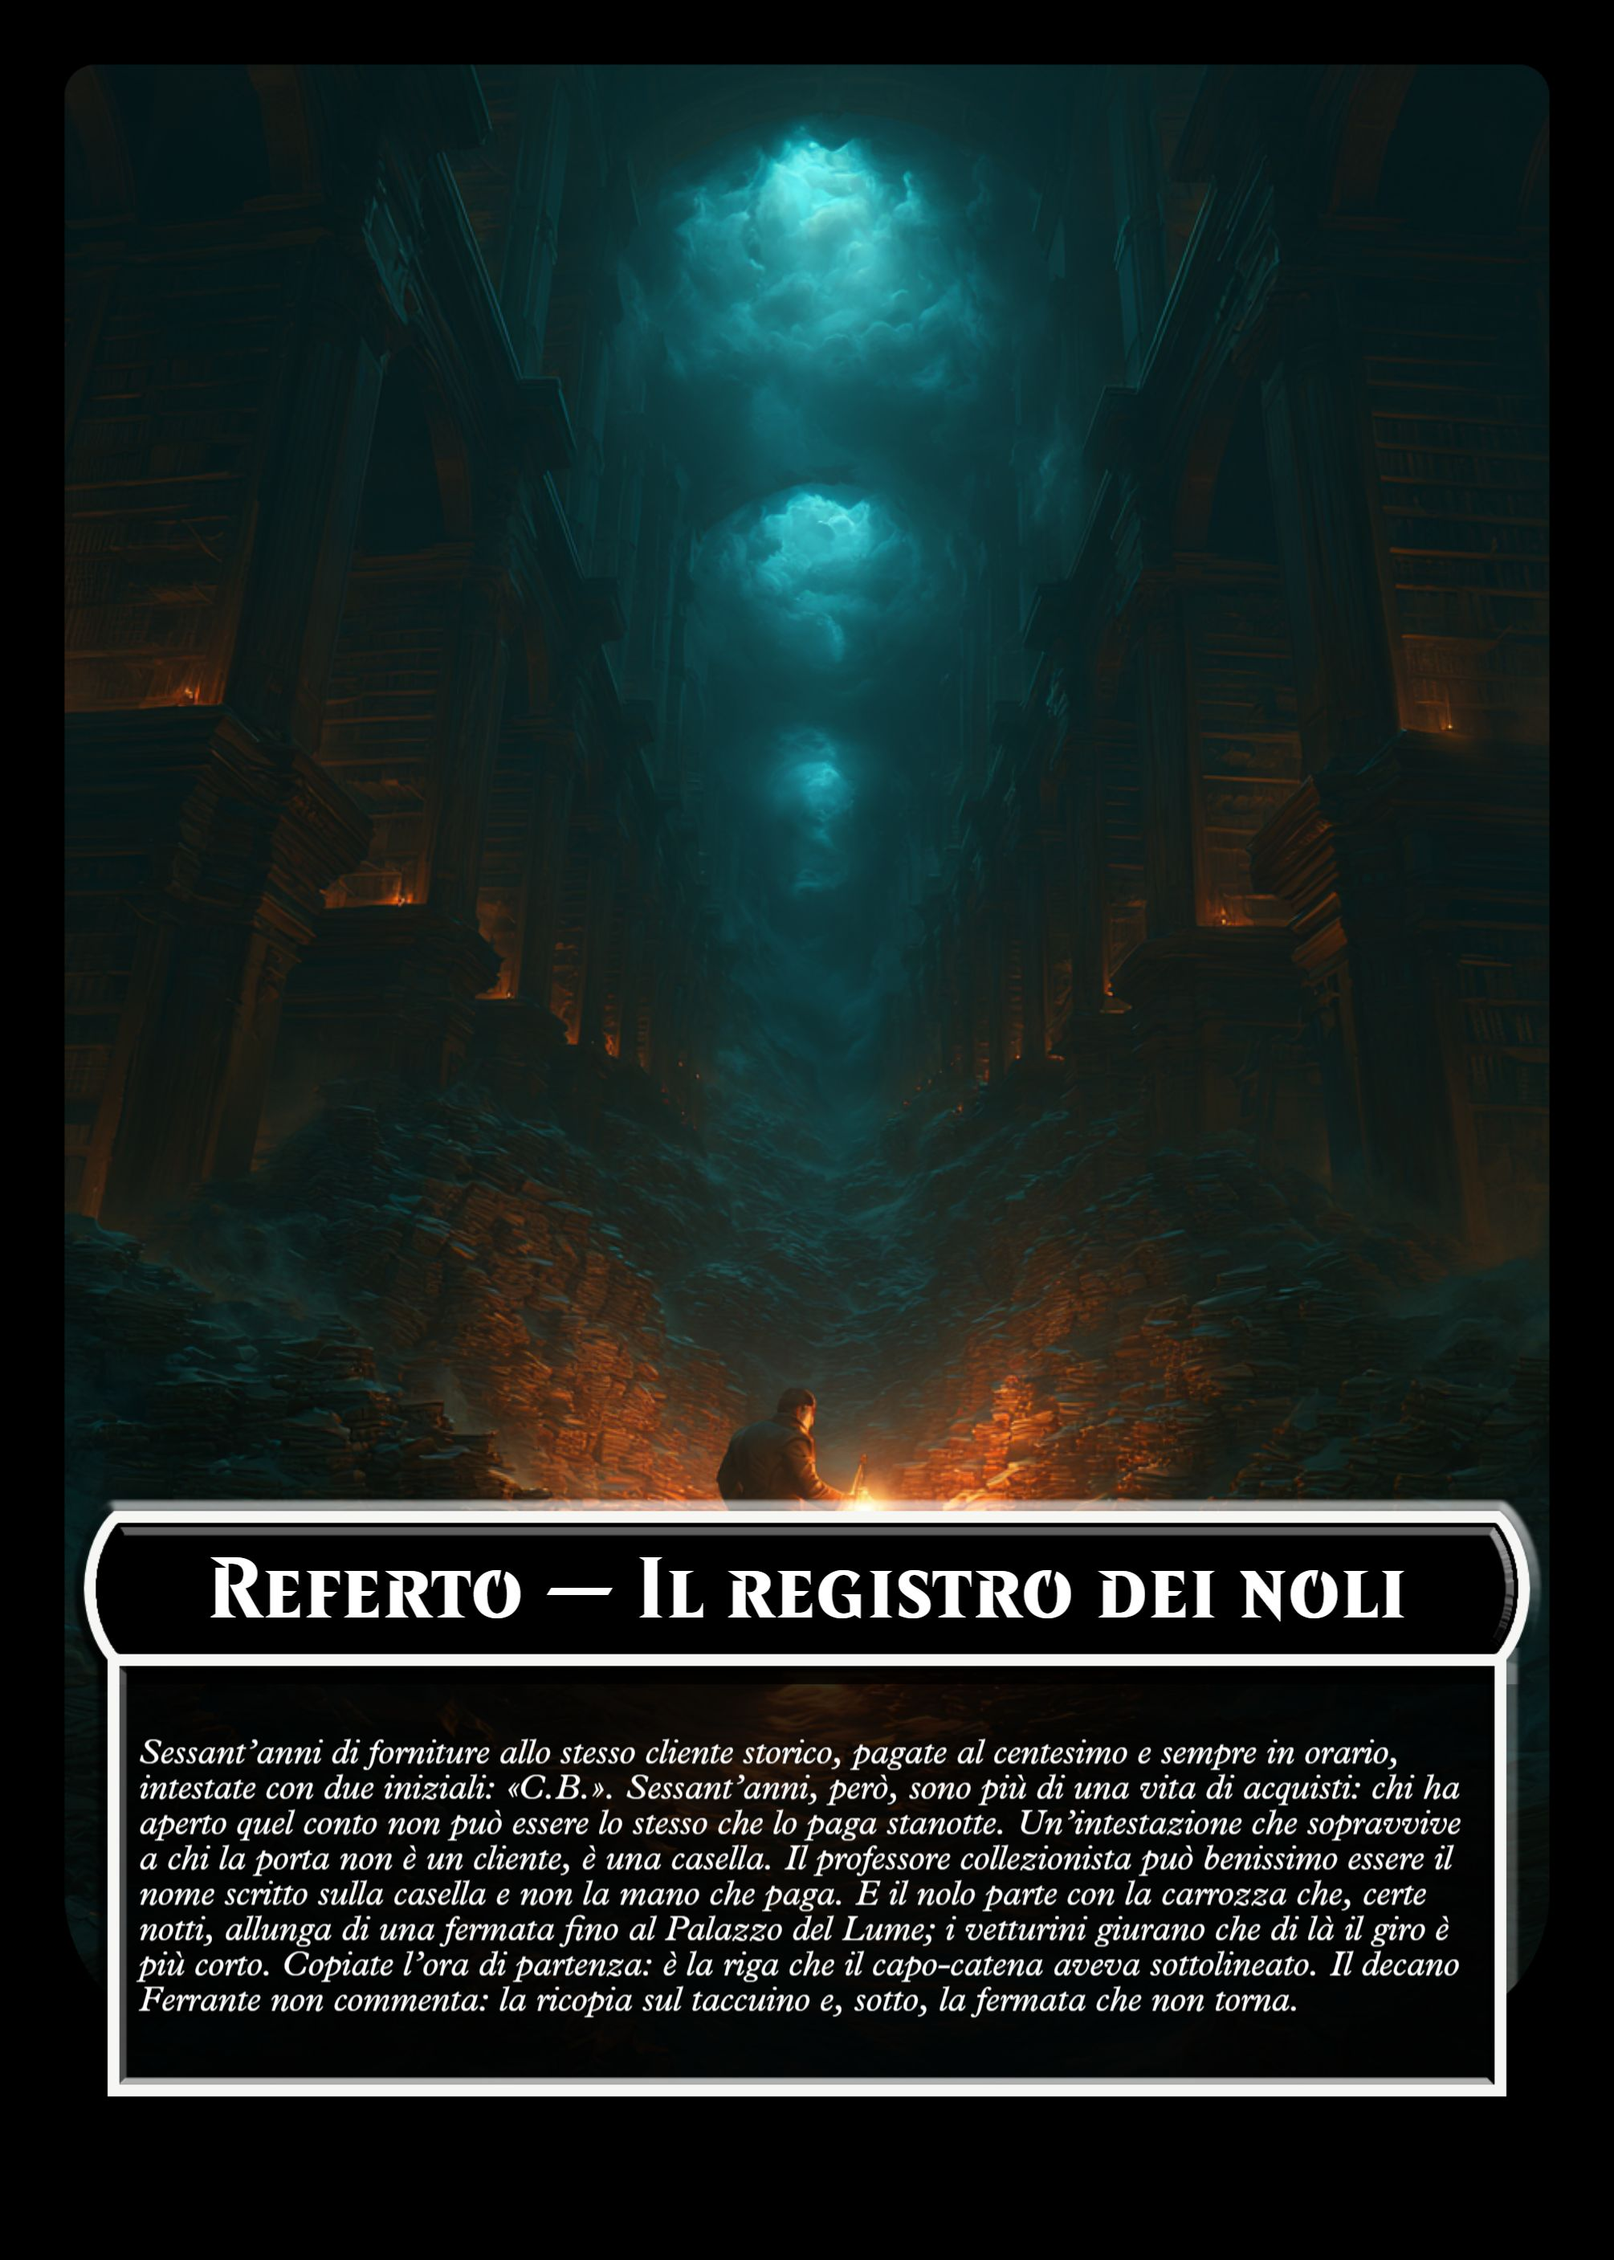
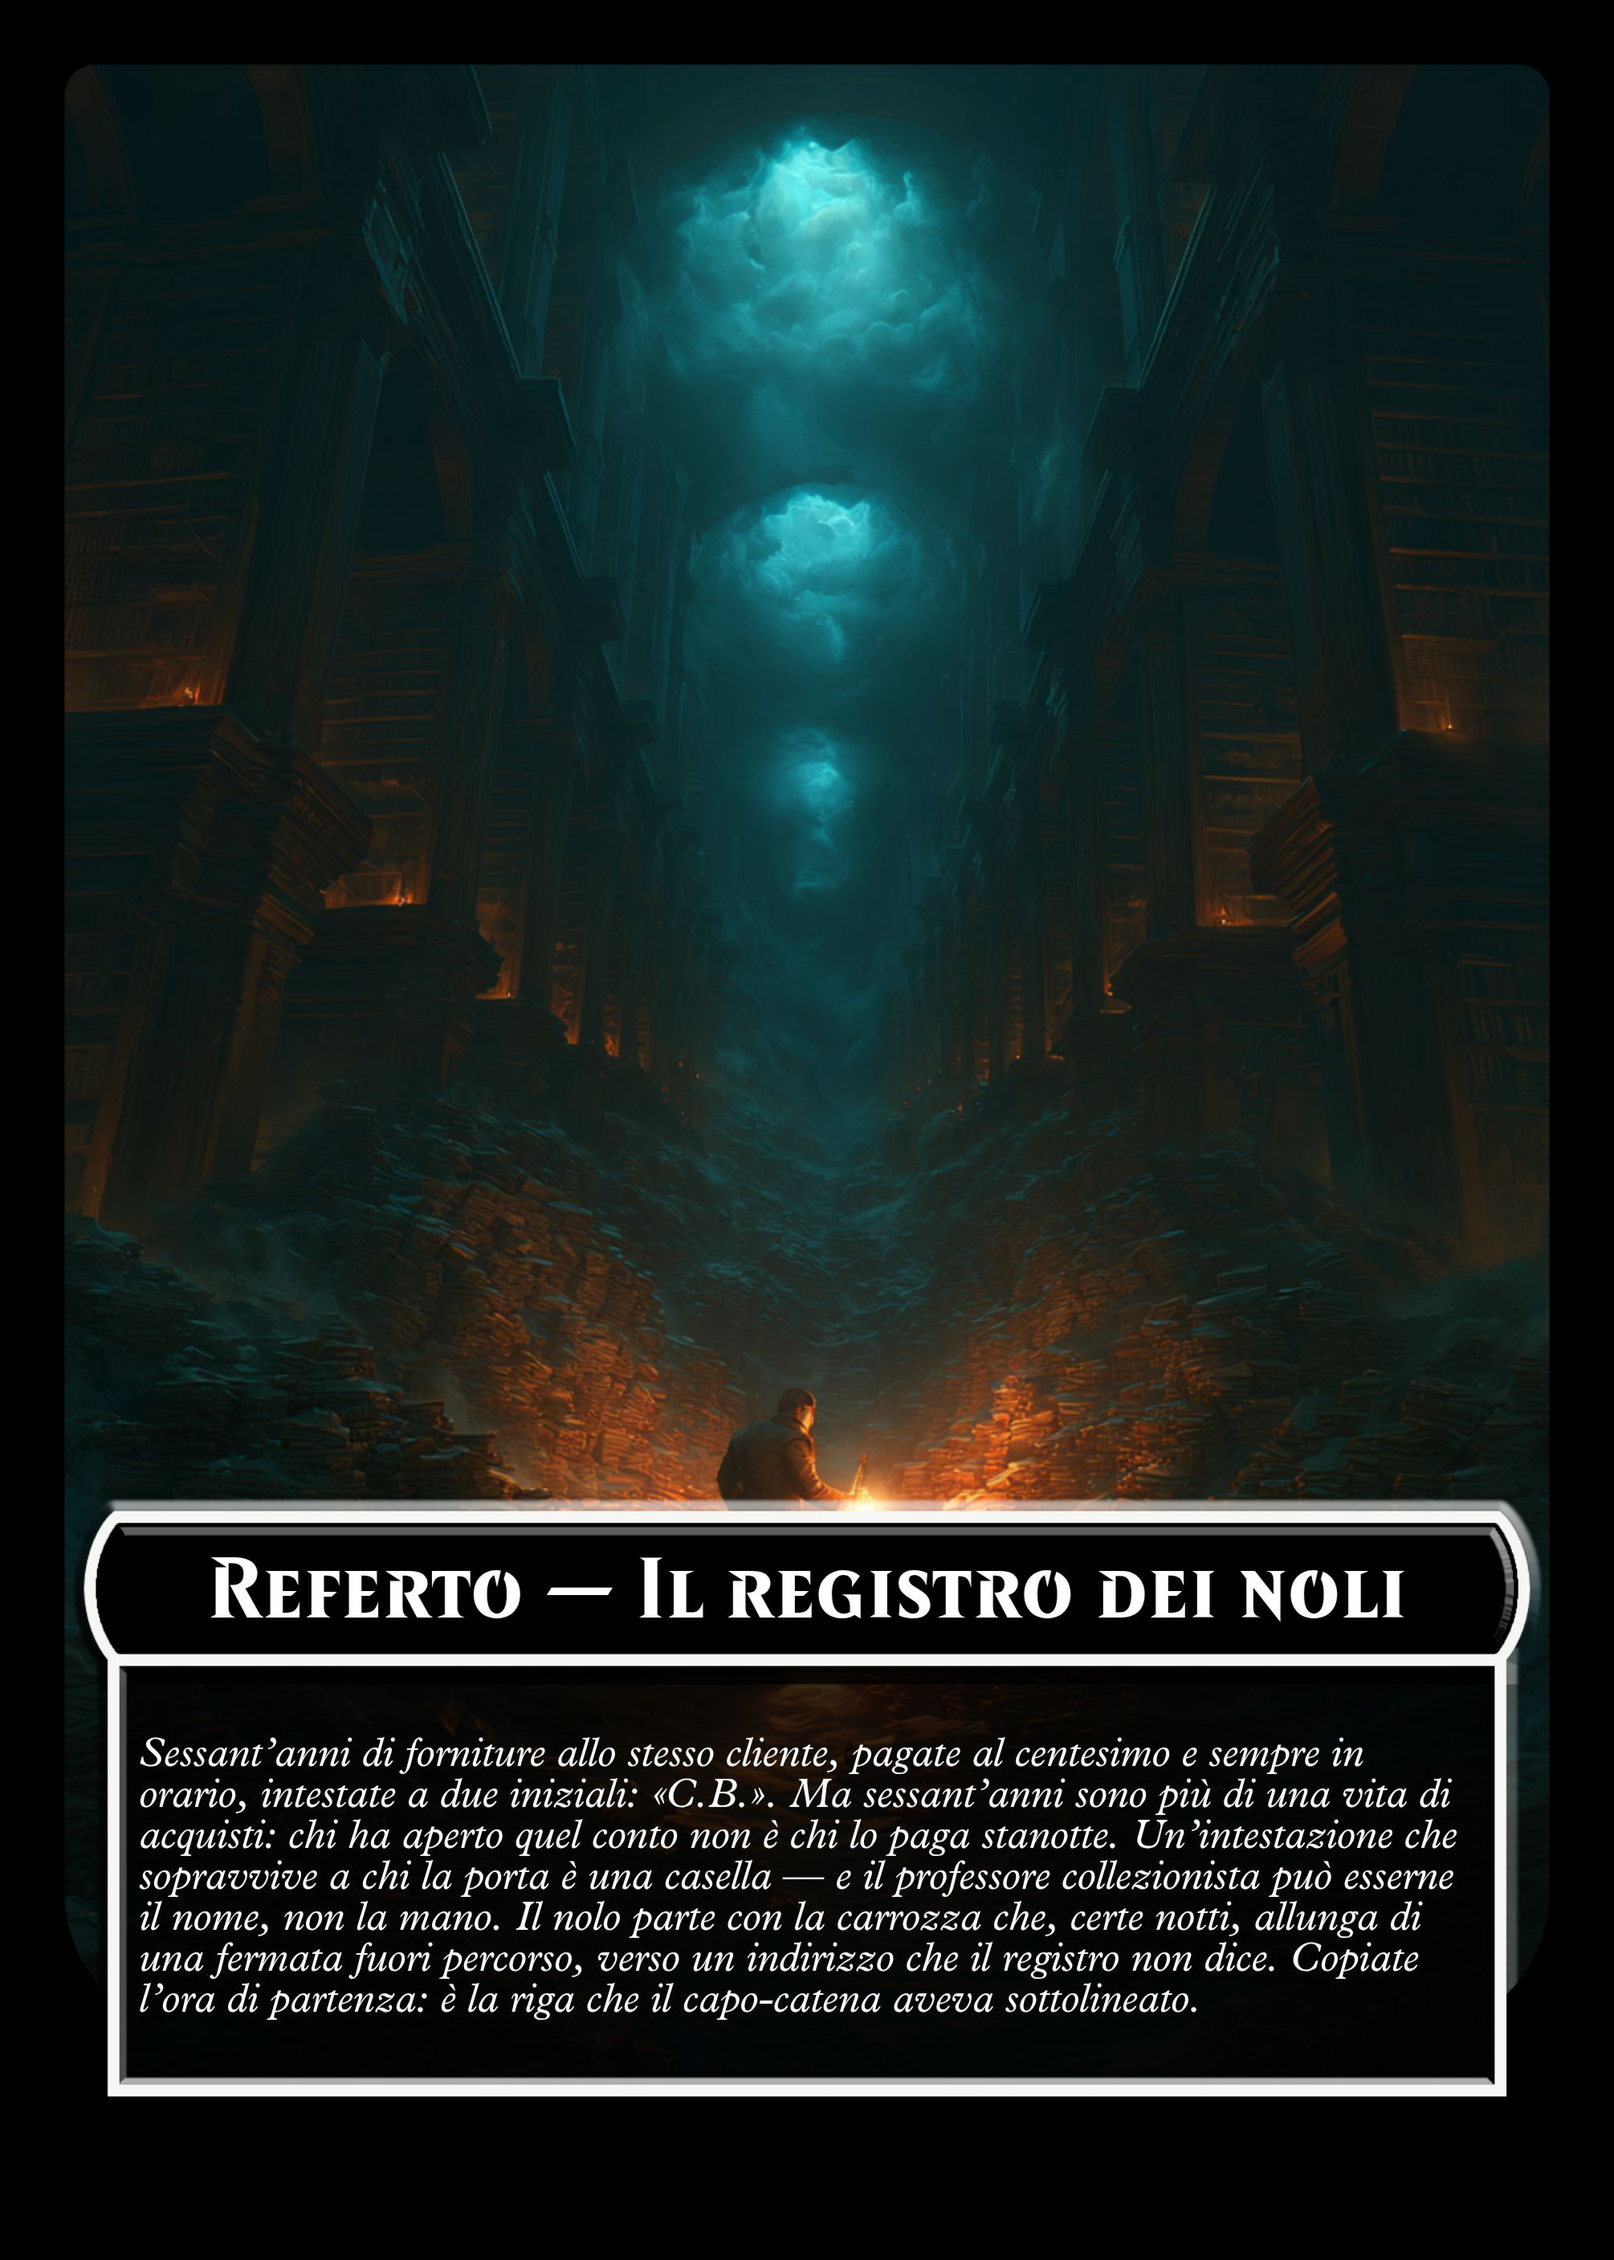
Attenua la fuga di spoiler su Ep.13 (Palazzo del Lume)
Il fascicolo sorgente (src/gen_ep13.py:726-730) marca esplicitamente
il collegamento fra il conto «C.B.» e il Palazzo del Lume come
informazione riservata a chi arbitra, da sciogliere solo all'Episodio
18 ("Non anticipatela"). Tre carte Approfondimento in
cards-data.js (Testimone — Il capostazione, Testimone — Il doganiere,
Referto — Il registro dei noli) lo rivelavano comunque ai giocatori.

Rimosso il nome "Palazzo del Lume" dalle tre carte: il mistero della
fermata fuori percorso resta, ma senza svelarne la destinazione.
Carte rigenerate e verificate.

Claude-Session: https://claude.ai/code/session_0129n3j6LLiEkE6FQr2QM6hA

Changed region(s): [[0.0925, 0.7729, 0.9254, 0.8966]]

diff --git a/scripts/cardconjurer/cards-data.js b/scripts/cardconjurer/cards-data.js
@@ -3042,7 +3042,7 @@ const LUOGHI13 = [
     testo: 'Lo snodo dei trasporti di terraferma: rimesse, cavalli, il quadro dei noli. Da qui parte, ogni notte, il nolo puntuale della carta di pregio; e qui lavorava il capo-catena, prima che il canale se lo prendesse.',
     approfondimenti: [
       { tipo: 'Testimonianza', soggetto: 'Il capostazione',
-        testo: '«Ve lo dico perché ho paura anch’io: quel nolo puntuale lo intesta sempre lo stesso studio, quello del Notaio Rasca. Carta in regola, bolli a posto, paga prima. E il capo-catena, buon’anima, s’era messo a cronometrare quella carrozza come si cronometra un treno: l’ora di partenza, le soste, il ritorno. Diceva che certe notti fa una fermata in più, al Palazzo del Lume. I vetturini alzano le spalle — comodità del giro, dicono, si è sempre fatta così. Lui però continuava a segnarla.»' },
+        testo: '«Ve lo dico perché ho paura anch’io: quel nolo puntuale lo intesta sempre lo stesso studio, quello del Notaio Rasca. Carta in regola, bolli a posto, paga prima. E il capo-catena, buon’anima, s’era messo a cronometrare quella carrozza come si cronometra un treno: l’ora di partenza, le soste, il ritorno. Diceva che certe notti fa una fermata in più, in un punto che non era sul giro. I vetturini alzano le spalle — comodità del giro, dicono, si è sempre fatta così. Lui però continuava a segnarla.»' },
     ] },
   { n: 2, nome: 'Lo Studio del Notaio', req: 'Disponibile dall’inizio',
     art: 'artworks/Lo Studio del Notaio.png',
@@ -3063,7 +3063,7 @@ const LUOGHI13 = [
     testo: 'Timbra le bolle di transito delle risme dal molino fuori porta. Roba pulita, dazio pagato; troppo pulita. È qui che il capo-catena veniva a confrontare i noli, e qui che aveva copiato l’ultima bolla prima di finire in acqua.',
     approfondimenti: [
       { tipo: 'Testimonianza', soggetto: 'Il doganiere',
-        testo: '«Ve lo metto a verbale perché ormai è morto lui e non io: il capo-catena aveva preso a contare il nolo della carta ora per ora, notte per notte, e sapeva a memoria quando parte e quando torna. Diceva anche che nelle notti giuste la carrozza fa una fermata in più prima di lasciare la città, al Palazzo del Lume. Che cosa ci vada a fare non me l’ha spiegato e io non gliel’ho chiesto; il vetturino giura che di là la strada è più corta. So soltanto che è annegato per quello che aveva contato, non per quello che aveva rubato.»' },
+        testo: '«Ve lo metto a verbale perché ormai è morto lui e non io: il capo-catena aveva preso a contare il nolo della carta ora per ora, notte per notte, e sapeva a memoria quando parte e quando torna. Diceva anche che nelle notti giuste la carrozza fa una fermata in più prima di lasciare la città, in un posto che non le spettava. Che cosa ci vada a fare non me l’ha spiegato e io non gliel’ho chiesto; il vetturino giura che di là la strada è più corta. So soltanto che è annegato per quello che aveva contato, non per quello che aveva rubato.»' },
     ] },
   { n: 5, nome: 'La Casa del Capo-Catena',
     req: 'La casa del morto è sigillata dai gendarmi, e si apre solo a chi sa perché è morto — la parola che tutti dicono a bassa voce, l’annegato che sapeva nuotare.',
@@ -3087,7 +3087,7 @@ const LUOGHI13 = [
     testo: 'Custodisce i registri di ogni nolo autorizzato: è qui che il calcolo del capo-catena trova conferma nero su bianco. Sessant’anni di forniture allo stesso conto intestato «C.B.», e una carrozza che, certe notti, fa una fermata di troppo.',
     approfondimenti: [
       { tipo: 'Referto', soggetto: 'Il registro dei noli',
-        testo: 'Sessant’anni di forniture allo stesso cliente, pagate al centesimo e sempre in orario, intestate a due iniziali: «C.B.». Ma sessant’anni sono più di una vita di acquisti: chi ha aperto quel conto non è chi lo paga stanotte. Un’intestazione che sopravvive a chi la porta è una casella — e il professore collezionista può esserne il nome, non la mano. Il nolo parte con la carrozza che, certe notti, allunga di una fermata fino al Palazzo del Lume. Copiate l’ora di partenza: è la riga che il capo-catena aveva sottolineato.' },
+        testo: 'Sessant’anni di forniture allo stesso cliente, pagate al centesimo e sempre in orario, intestate a due iniziali: «C.B.». Ma sessant’anni sono più di una vita di acquisti: chi ha aperto quel conto non è chi lo paga stanotte. Un’intestazione che sopravvive a chi la porta è una casella — e il professore collezionista può esserne il nome, non la mano. Il nolo parte con la carrozza che, certe notti, allunga di una fermata fuori percorso, verso un indirizzo che il registro non dice. Copiate l’ora di partenza: è la riga che il capo-catena aveva sottolineato.' },
     ] },
   { n: 8, nome: 'Il Deposito delle Risme',
     req: 'Il deposito dove arrivano le risme è chiuso a quest’ora, e apre solo a chi sa da dove vengono: l’opificio fuori le mura che fa la filigrana.',

diff --git a/AUDIT-ARTEFATTI.md b/AUDIT-ARTEFATTI.md
@@ -135,16 +135,21 @@ quasi 200 luoghi).
 
 ## 2. Problemi gravi specifici (non sistemici, ma seri)
 
-- **Ep.13 — fuga di spoiler (ALTA)** — *non corretto, lasciato alla decisione
-  dell'autore*: tre carte Approfondimento (2 Testimoni, 1 Referto) rivelano
-  esplicitamente "una fermata in più al Palazzo del Lume", il segreto di
-  campagna che la Soluzione dice testualmente di non svelare prima
-  dell'Episodio 18. Nessuna fuga simile trovata negli altri episodi controllati
-  (14, 15, 17 espliciti "nessuno spoiler rilevato"). Rileggendo le quattro
-  carte coinvolte non si può escludere che sia foreshadowing intenzionale
-  (un indizio ambiguo che acquista senso solo a posteriori) piuttosto che un
-  refuso di scrittura: serve un giudizio d'autore, non una correzione
-  automatica.
+- **Ep.13 — fuga di spoiler (ALTA)** — ***corretto***: tre carte Approfondimento
+  (2 Testimoni, 1 Referto) nominavano esplicitamente "una fermata in più al
+  Palazzo del Lume". Confermato *vero* bug, non foreshadowing voluto: il
+  fascicolo sorgente (`src/gen_ep13.py` riga 726-730) marca lo stesso dettaglio
+  come **noto solo a chi arbitra** ("Questo lo sapete voi che arbitrate, non
+  loro [...] la fermata in più resta un appunto non sciolto, e si scioglierà
+  all'Episodio 18. **Non anticipatela.**") — le carte in mano ai giocatori
+  contraddicevano questa istruzione esplicita di design. Attenuato in
+  `cards-data.js`: rimosso il nome "Palazzo del Lume" dalle tre carte (righe
+  3045, 3066, 3090), lasciando il mistero della fermata "fuori percorso, verso
+  un indirizzo che il registro non dice" senza svelare la destinazione; il
+  legame fra le iniziali «C.B.» e Il Palazzo del Lume, cuore del colpo di
+  scena dell'Ep.18, non è più leggibile dalle carte. Le 3 carte coinvolte
+  sono state rigenerate e verificate. Nessuna fuga simile trovata negli altri
+  episodi controllati (14, 15, 17 espliciti "nessuno spoiler rilevato").
 - **Ep.15 — carte mancanti (ALTA)** — *2 di 3 risolte*: la carta Luogo "Il
   Tribunale" e la carta Testimone "Il vecchio giudice" avevano già arte e dati
   completi, non erano mai state renderizzate — **generate e verificate**. La
@@ -274,9 +279,10 @@ risolto:
 6. **Ep.15, 2 carte su 3 mancanti** ("Il Tribunale", "Il vecchio giudice") —
    arte e testo esistevano già, mancava solo il render. **Generate e
    verificate.**
-7. **Fuga di spoiler in Ep.13** — lasciata **non corretta**: potrebbe essere
-   foreshadowing intenzionale piuttosto che un refuso; decisione che spetta
-   all'autore, non a una correzione automatica.
+7. **Fuga di spoiler in Ep.13** — **corretta**: confermato bug (non
+   foreshadowing) contro il testo esplicito di `gen_ep13.py` ("non
+   anticipatela"). Rimosso il nome "Palazzo del Lume" dalle 3 carte
+   coinvolte, il mistero resta ma senza svelare la destinazione.
 8. **"Effetto: nessuno finora scoperto"** (40 occorrenze totali, non solo le 6
    inizialmente segnalate) — lasciato **non corretto**: più indizi (parentetiche
    esplicative nel testo) suggeriscono che sia flavour deliberato, non un
